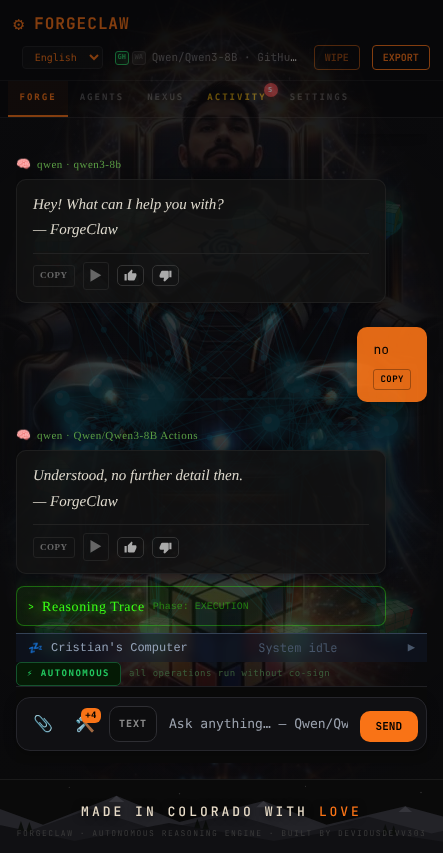
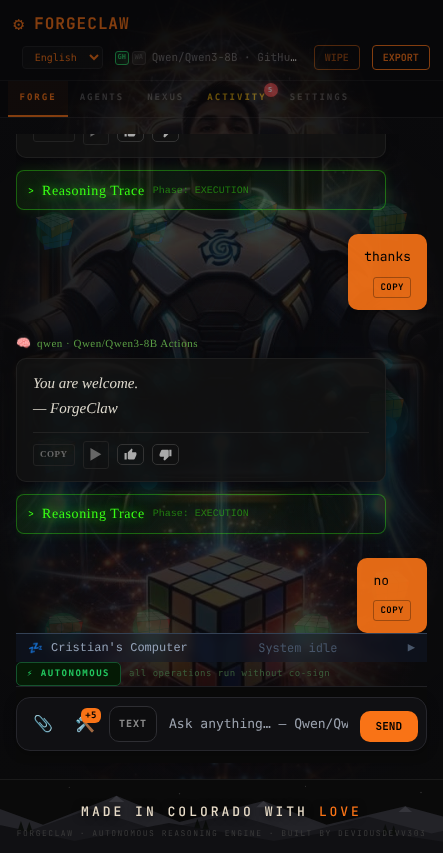
Every message reaches the model: remove the canned greeting shortcut (owner's rule), with real-runner proof of the context fix
- providerRouter: no isSimpleMessage / simple-greeting bypass; "hi", "thanks", "why?", "no" all dispatch qwen_reason with the conversation thread.
- Tests rewritten to assert the opposite (simpleBypass.test.ts, providerRouter.test.ts, qwenConversation.test.ts).
- UI walk (ui_conversation.cjs) 9/9 at 1100x900 and 443x853 against the production build.
- Real runner, same follow-up: with the thread Qwen resolves "that phenomenon" to quantum entanglement (qwen-1793795000000-conv1t, 52.1 s);
  without it (the old behaviour) it calls the question vague (qwen-1793795000001-conv1c, 64.8 s). Both on the qwen-results mirror.
- Gate: tsc 0, eslint 0 errors, vitest 2524 passed / 8 skipped / 0 failed.

Claude-Session: https://claude.ai/code/session_01XGcLrW98M2TRD6TJtMaNzi

diff --git a/src/lib/ai/providerRouter.ts b/src/lib/ai/providerRouter.ts
@@ -83,28 +83,6 @@ function shouldBootstrapRepositoryEvidence(request: AIRequest, providerId: Provi
   const text = [...request.messages].reverse().find(m => m.role === 'user')?.content ?? ''
   return /repository evidence comes from github tools|\b(repo|repository|codebase|forgeclaw|source|file|branch|commit|github)\b/i.test(text)
 }
-/**
- * Simple messages that don't need Qwen reasoning — answer directly
- * without hitting GitHub Actions. Covers greetings, acknowledgments,
- * and other low-complexity chat in English and Spanish.
- */
-const SIMPLE_MESSAGE_RE = /^(hi+|hey+|hello+|hola+|buenos?\s*d[ií]as|buenas?\s*(tardes|noches)|thanks?|gracias|thank\s*you|ok|okay|vale|bien|cool|nice|lol|jaja+|ad[ií]os|bye+|chao|sí|si|no|yeah?|yep|nope|\.+|\?+|!+)$/i;
-
-/** After an exchange only pleasantries are simple; "no", "si", "yep", "ok" and a bare "?" answer the assistant and need the model. */
-const PLEASANTRY_RE = /^(hi+|hey+|hello+|hola+|buenos?\s*d[ií]as|buenas?\s*(tardes|noches)|thanks?|gracias|thank\s*you|cool|nice|lol|jaja+|ad[ií]os|bye+|chao)$/i;
-
-function isSimpleMessage(request: AIRequest): boolean {
-  const text = [...request.messages].reverse().find(m => m.role === 'user')?.content ?? '';
-  // The App appends its runtime envelope to every user message; judge only what the person typed.
-  const trimmed = extractOriginalQwenTask(text).trim();
-  // Short (< 30 chars) and matches simple pattern, or very short (< 10 chars)
-  // A very short message is only a greeting when it opens the conversation: after an exchange, "why?" or "and that one?" is a
-  // follow-up that needs the model and the thread, and used to get the canned greeting back.
-  const latestUser = request.messages.map(m => m.role).lastIndexOf('user')
-  const hasEarlierTurns = request.messages.slice(0, Math.max(latestUser, 0)).some(m => m.role === 'user' || m.role === 'assistant')
-  return hasEarlierTurns ? trimmed.length < 30 && PLEASANTRY_RE.test(trimmed) : trimmed.length < 10 || (trimmed.length < 30 && SIMPLE_MESSAGE_RE.test(trimmed));
-}
-
 /** Questions that need gathered sources, not model memory. */
 const RESEARCH_INTENT_RE = /\b(?:deep research|research|investigate|look into|find (?:me )?sources|literature review|what (?:do|does) (?:the )?(?:studies|evidence|research) say|compare (?:the )?(?:best|top|leading))\b/i
 
@@ -233,8 +211,6 @@ function chainGuidance(task: string): { context?: string } {
 function shouldBootstrapQwenReasoning(request: AIRequest, providerId: ProviderId): boolean {
   if (!isQwenProvider(providerId) || !request.tools?.some(t => t.name === 'qwen_reason')) return false
   if (failedQwenToolResult(request)) return false
-  // Simple messages bypass GitHub Actions entirely
-  if (isSimpleMessage(request)) return false
   const latest = latestCurrentToolResult(request)
   return !latest || latest.name !== 'qwen_reason'
 }
@@ -258,14 +234,7 @@ export async function sendViaRouter(request: AIRequest, apiKey: string, provider
   // A picture comes first: greetings, repository evidence and research would all answer without it.
   const imageStep = isQwenProvider(selected) ? nextImageStep(request, choice.model, selected) : undefined
   if (imageStep) return imageStep
-  // Simple greetings get a direct response — no GitHub Actions needed
-  if (isQwenProvider(selected) && isSimpleMessage(request)) {
-    const lang = request.responseLanguage || 'en';
-    const greeting = lang.startsWith('es')
-      ? '¡Hola! ¿En qué te puedo ayudar?'
-      : 'Hey! What can I help you with?';
-    return success({ text: greeting, provider: selected, model: choice.model, stopReason: 'simple-greeting' });
-  }
+  // Every message reaches the model: there is no canned reply for greetings, thanks or one-word answers (owner's rule, 2026-11-04).
   if (isQwenProvider(selected) && prior?.name === 'qwen_reason' && isGuardianBlockedResult(prior.content)) return { success: false, error: classifyError(new Error(`Guardian blocked the Qwen/Qwen3-8B reasoning step. ${prior.content.slice(0, 300)}`), selected) }
   // Repository facts must be established before Qwen receives a coding or
   // repository-oriented task. Previously this check ran first, so a request

diff --git a/src/lib/ai/simpleBypass.test.ts b/src/lib/ai/simpleBypass.test.ts
@@ -2,7 +2,7 @@
 // Proprietary source-available license. Commercial use requires written permission. See LICENSE.
 // Built with love for Cristian Jr., Layla, and Jozae.
 
-import { describe, it, expect, vi } from 'vitest';
+import { describe, it, expect } from 'vitest';
 import { sendViaRouter } from './providerRouter';
 import type { AIRequest } from './types';
 
@@ -16,45 +16,16 @@ function makeRequest(text: string, lang = 'en'): AIRequest {
   };
 }
 
-describe('simple message bypass', () => {
-  it('answers "hi" directly without GitHub Actions', async () => {
-    vi.stubGlobal('fetch', vi.fn(() => { throw new Error('should not fetch'); }));
-    const result = await sendViaRouter(makeRequest('hi'), '', 'qwen');
-    expect(result.success).toBe(true);
-    if (result.success) {
-      expect(result.response.text).toContain('help');
-      expect(result.response.stopReason).toBe('simple-greeting');
+// Owner's rule (2026-11-04): everything reaches the model and reasons. There is no canned reply for any message.
+describe('no message bypasses the model', () => {
+  it('sends greetings, thanks and one-word messages to Qwen as a qwen_reason call', async () => {
+    for (const [text, lang] of [['hi', 'en'], ['hola', 'es'], ['thanks', 'en'], ['gracias', 'es'], ['ok?', 'en'], ['why?', 'en'], ['no', 'en']] as const) {
+      const result = await sendViaRouter(makeRequest(text, lang), '', 'qwen');
+      expect(result, text).toMatchObject({ success: true, response: { stopReason: 'deterministic-qwen-reasoning' } });
+      if (result.success) {
+        expect(result.response.toolCalls?.[0]?.name, text).toBe('qwen_reason');
+        expect(result.response.toolCalls?.[0]?.input, text).toMatchObject({ task: expect.stringContaining(text) });
+      }
     }
-  });
-
-  it('answers "hola" in Spanish', async () => {
-    vi.stubGlobal('fetch', vi.fn(() => { throw new Error('should not fetch'); }));
-    const result = await sendViaRouter(makeRequest('hola', 'es'), '', 'qwen');
-    expect(result.success).toBe(true);
-    if (result.success) {
-      expect(result.response.text).toContain('Hola');
-    }
-  });
-
-  it('answers "thanks" directly', async () => {
-    vi.stubGlobal('fetch', vi.fn(() => { throw new Error('should not fetch'); }));
-    const result = await sendViaRouter(makeRequest('thanks'), '', 'qwen');
-    expect(result.success).toBe(true);
-  });
-
-  it('still uses Qwen for real questions', async () => {
-    // A real question should NOT get the simple-greeting response
-    // (it will fail without mocked GitHub, but not with simple-greeting)
-    vi.stubGlobal('fetch', vi.fn(async () => new Response('', { status: 500 })));
-    const result = await sendViaRouter(
-      makeRequest('Explain how neural networks work in detail'),
-      '',
-      'qwen'
-    );
-    // Should attempt Qwen (not return simple greeting)
-    if (result.success) {
-      expect(result.response.stopReason).not.toBe('simple-greeting');
-    }
-    // If it fails, that's expected (no real GitHub) — just not a greeting
   });
 });

diff --git a/src/lib/qwenConversation.test.ts b/src/lib/qwenConversation.test.ts
@@ -114,21 +114,16 @@ describe('the router and the dispatch carry the thread', () => {
   })
 })
 
-describe('short follow-ups are follow-ups, not greetings', () => {
+describe('every message reaches the model, opening or follow-up', () => {
   const tools = [{ name: 'qwen_reason', description: 'reason', parameters: {} }]
   const earlier: AIMessage[] = [{ role: 'user', content: 'Teach me something new' }, { role: 'assistant', content: ANSWER }]
   const route = (messages: AIMessage[]) => sendViaRouter({ model: 'qwen3-8b', systemPrompt: '', messages, tools }, '', 'qwen')
 
-  it('opening the conversation with a greeting or a very short message is still answered directly', async () => {
-    for (const text of ['hi', 'hola', 'gracias', 'ok?']) expect(await route([{ role: 'user', content: text }]), text).toMatchObject({ success: true, response: { stopReason: 'simple-greeting' } })
-  })
-  it('after an exchange, "why?", "and why?", "no", "si" and "?" go to the model with the thread', async () => {
-    for (const text of ['why?', 'and why?', 'no', 'si', 'yep', '?', 'how so']) {
+  it('after an exchange, "why?", "and why?", "no", "si", "?", "thanks" and "hello" all dispatch with the thread', async () => {
+    for (const text of ['why?', 'and why?', 'no', 'si', 'yep', '?', 'how so', 'thanks', 'hello']) {
       const result = await route([...earlier, { role: 'user', content: text }])
       expect(result, text).toMatchObject({ success: true, response: { stopReason: 'deterministic-qwen-reasoning' } })
+      if (result.success) expect((result.response.toolCalls?.[0]?.input as { context?: string }).context, text).toContain(ANSWER)
     }
-  })
-  it('after an exchange, a plain thank-you or greeting is still answered directly', async () => {
-    for (const text of ['thanks', 'gracias', 'hello']) expect(await route([...earlier, { role: 'user', content: text }]), text).toMatchObject({ success: true, response: { stopReason: 'simple-greeting' } })
   })
 })

diff --git a/src/lib/ai/providerRouter.test.ts b/src/lib/ai/providerRouter.test.ts
@@ -127,15 +127,15 @@ describe('provider router', () => {
   // App.tsx appends this envelope to every user message before routing (effectivePrompt).
   const asSentByApp = (text: string) => `${text}\n\n${buildRuntimeRequestContext({ owner: 'DeviousDevv303', repo: 'forgeclaw', taskStatus: 'idle' })}`
 
-  it('answers a greeting directly even with the app runtime envelope attached', async () => {
+  it('sends a greeting to the model too, with the app runtime envelope attached', async () => {
     for (const text of ['hi', 'hola', 'gracias']) {
       const result = await sendViaRouter({
         model: 'qwen3-8b', systemPrompt: '',
         messages: [{ role: 'user', content: asSentByApp(text) }],
         tools: [{ name: 'qwen_reason', description: 'reason', parameters: {} }],
       }, '', 'qwen')
-      expect(result, text).toMatchObject({ success: true, response: { stopReason: 'simple-greeting' } })
-      if (result.success) expect(result.response.toolCalls ?? [], text).toHaveLength(0)
+      expect(result, text).toMatchObject({ success: true, response: { stopReason: 'deterministic-qwen-reasoning' } })
+      if (result.success) expect(result.response.toolCalls?.[0]?.input, text).toMatchObject({ task: expect.stringContaining(text) })
     }
   })
 
